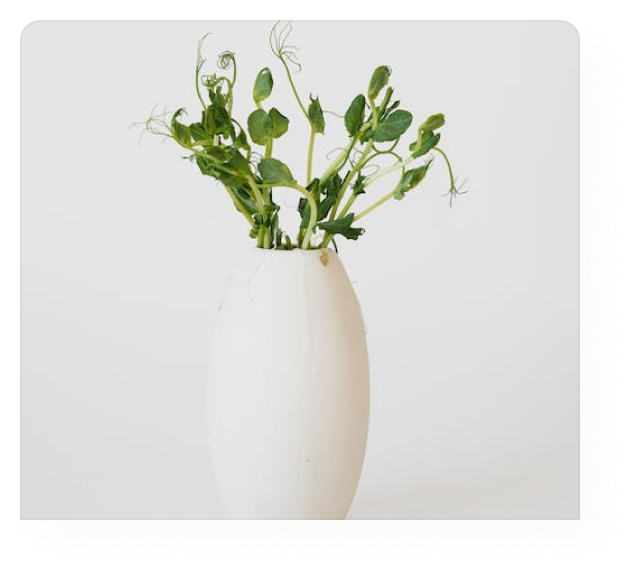
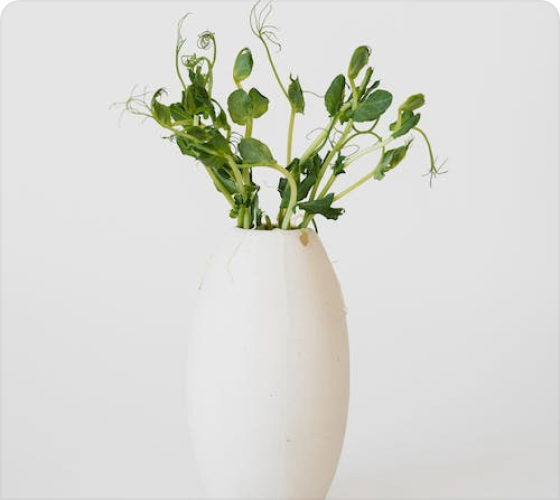
fix image in section product

diff --git a/index.html b/index.html
@@ -288,7 +288,7 @@
                   <div class="product-box__img">
                     <img
                       class="product-image"
-                      src="./images/product8.png"
+                      src="./images/product1.png"
                       alt=""
                     />
                   </div>
@@ -305,7 +305,7 @@
                   <div class="product-box__img">
                     <img
                       class="product-image"
-                      src="./images/product8.png"
+                      src="./images/product2.png"
                       alt=""
                     />
                   </div>
@@ -322,7 +322,7 @@
                   <div class="product-box__img">
                     <img
                       class="product-image"
-                      src="./images/product8.png"
+                      src="./images/product3.png"
                       alt=""
                     />
                   </div>
@@ -339,7 +339,7 @@
                   <div class="product-box__img">
                     <img
                       class="product-image"
-                      src="./images/product8.png"
+                      src="./images/product4.png"
                       alt=""
                     />
                   </div>
@@ -356,7 +356,7 @@
                   <div class="product-box__img">
                     <img
                       class="product-image"
-                      src="./images/product8.png"
+                      src="./images/product5.png"
                       alt=""
                     />
                   </div>
@@ -373,7 +373,7 @@
                   <div class="product-box__img">
                     <img
                       class="product-image"
-                      src="./images/product8.png"
+                      src="./images/product6.png"
                       alt=""
                     />
                   </div>
@@ -390,7 +390,7 @@
                   <div class="product-box__img">
                     <img
                       class="product-image"
-                      src="./images/product8.png"
+                      src="./images/product7.png"
                       alt=""
                     />
                   </div>
